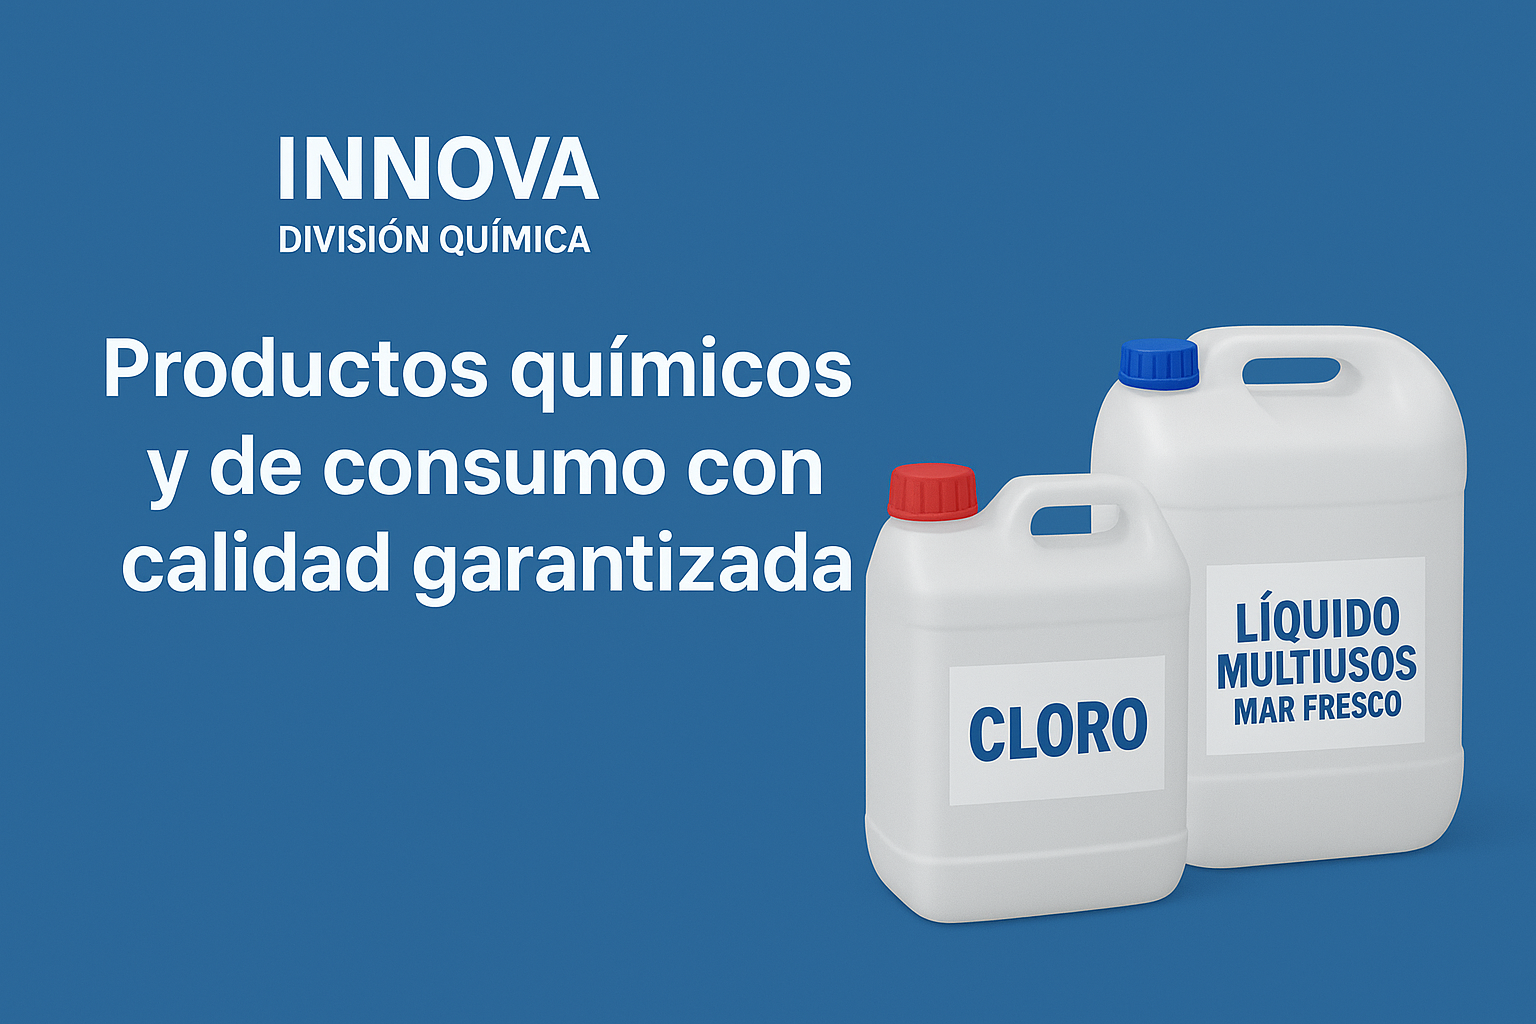
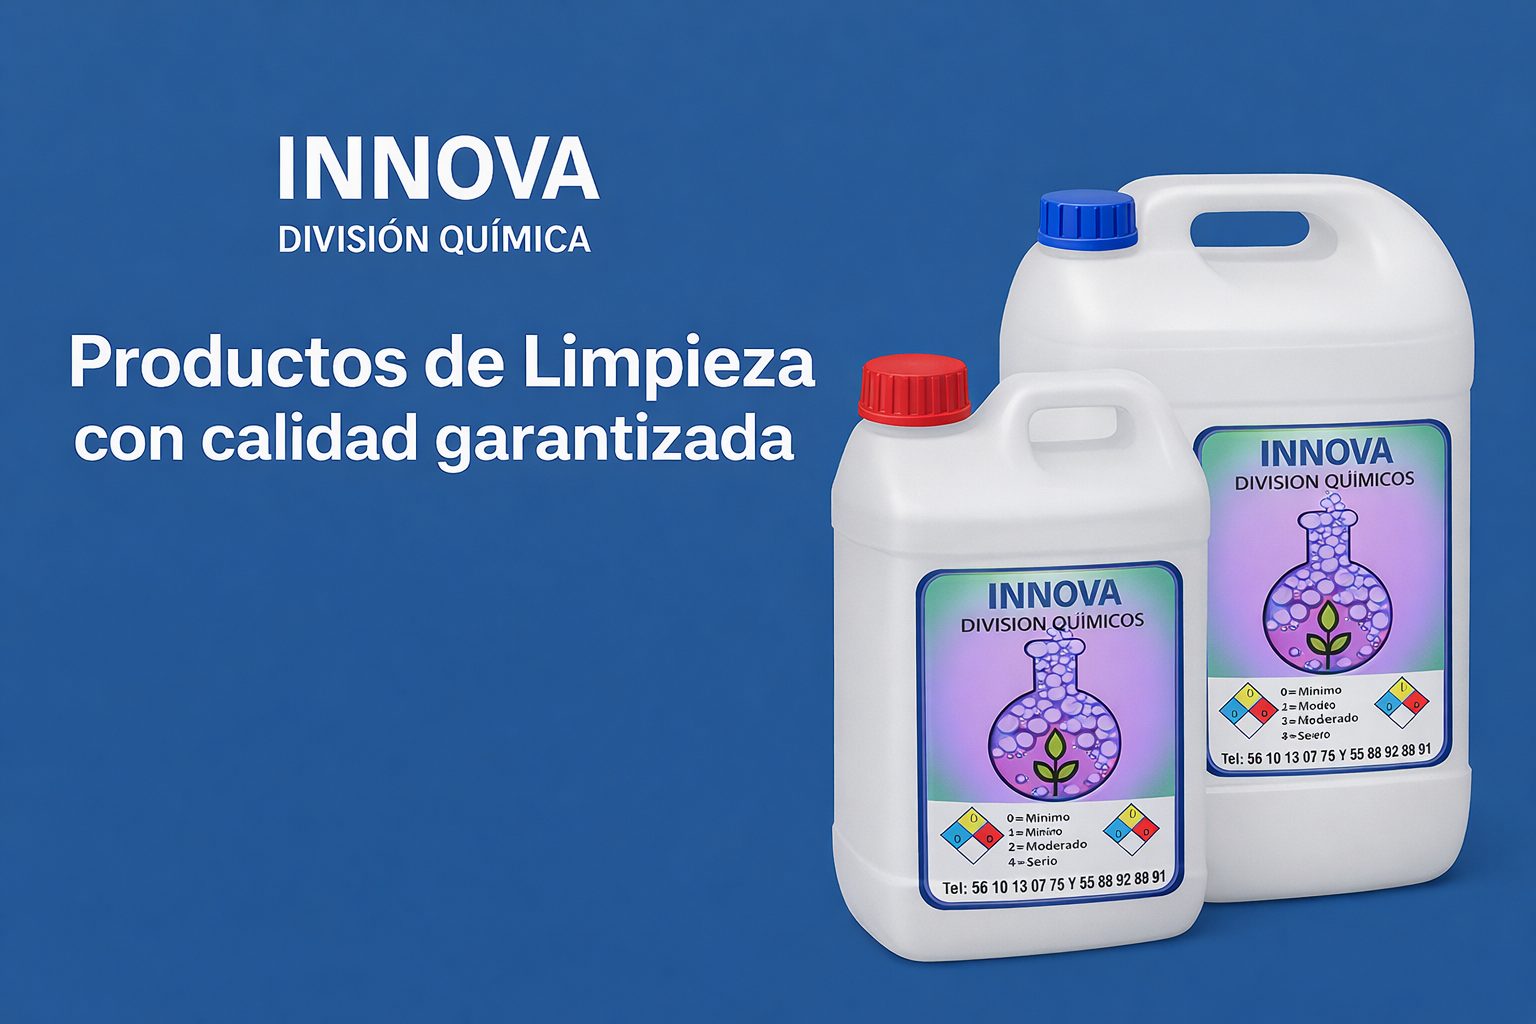
Actualizacion 40

diff --git a/public/index.html b/public/index.html
@@ -42,7 +42,7 @@
       <br><br>
       <b>Los precios están sujetos a cambio sin previo aviso.</b>
       <br><br>
-      <b>Aviso:</b> nuestro horario será de <b>7:00 a.m. a 5:00 p.m.</b> hasta nuevo aviso.
+      <b>Aviso:</b> Nuestro horario <b>9:00 a.m. a 6:00 p.m.</b>
       Agradecemos su preferencia.
     </p>
   </section>
@@ -63,11 +63,11 @@
     <div class="texto">
       <h2>INNOVA DIVISIÓN QUÍMICA</h2>
       <p>
-        Empresa mexicana con más de 20 años de experiencia, enfocada en la fabricación y comercialización de productos
-        químicos para limpieza industrial, comercial y del hogar.
+        Empresa mexicana con más de 20 años de experiencia, enfocada en la fabricación y 
+        comercialización de productos para la limpieza industrial, comercial y del hogar.
+
         <br><br>
-        Entra a nuestra tienda virtual y descubre nuestra amplia gama de productos como jarciería, papel higiénico,
-        despachadores y más.
+        Entra a nuestra tienda virtual y descubre nuestra amplia gama de jabones, desengrasantes, multiusos y productos especializados.
       </p>
       <a href="contacto.html" class="btn-contacto">Contáctanos</a>
     </div>
@@ -171,7 +171,7 @@
       <!-- Columna 1 -->
       <div class="footer-col">
         <h3>INNOVA División Química</h3>
-        <p><strong>Productos químicos y de consumo con calidad garantizada</strong></p>
+        <p><strong>Productos de Limpieza con calidad garantizada</strong></p>
 
         <p><strong>Ubicación:</strong><br>
           Parque Logistico Odonell<br>
@@ -179,8 +179,8 @@
         </p>
 
         <p><strong>Ventas:</strong><br>
-          56-10-13-87-75<br>
-          55-1233-5136, 55-3704-6332
+          55 8346 4685<br>
+          55 8892 8991, 55 2930 3117
         </p>
 
         <p><strong>Whatsapp:</strong> 56-10-13-87-75</p>

diff --git a/public/nosotros.html b/public/nosotros.html
@@ -69,7 +69,7 @@
       </div>
       <h2>Misión</h2>
       <p>
-        Proveer productos químicos de limpieza confiables, efectivos y seguros, cubriendo las 
+        Proveer productos de limpieza confiables, efectivos y seguros, cubriendo las 
         necesidades del mercado con calidad y responsabilidad.
       </p>
     </div>
